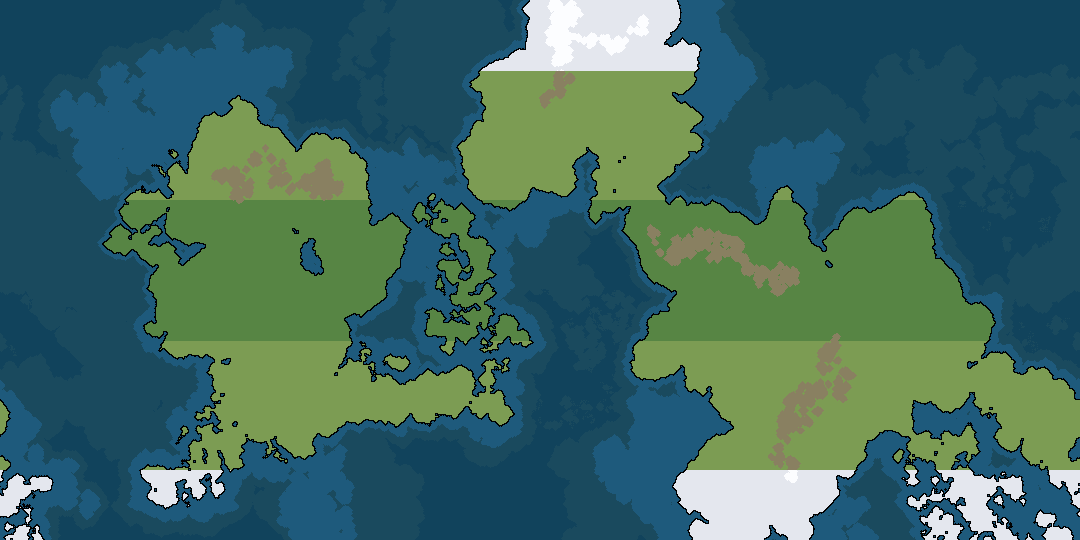
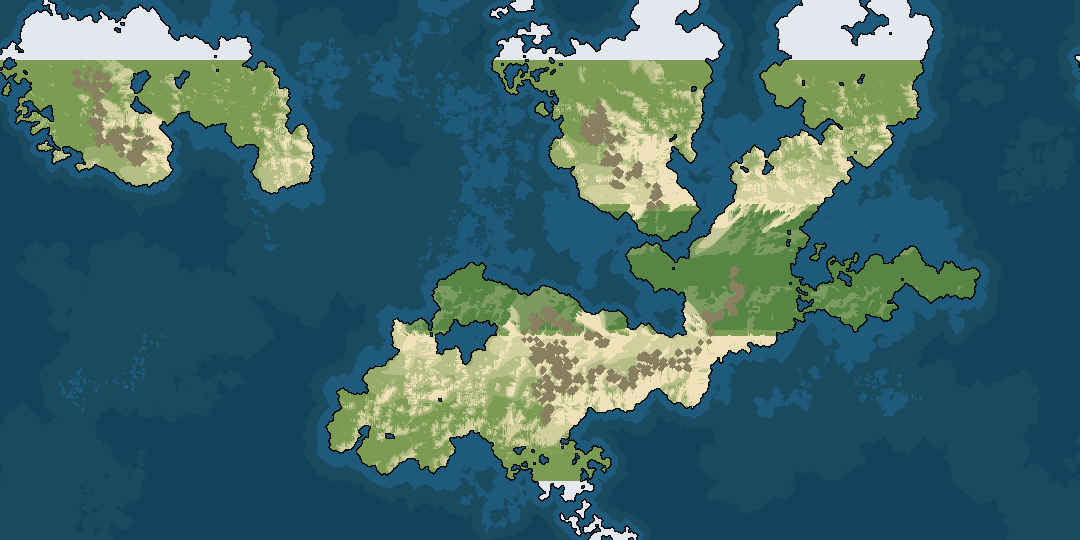
Prettier humidity

diff --git a/src/mapgen/HumidityMap.java b/src/mapgen/HumidityMap.java
@@ -58,7 +58,26 @@ public class HumidityMap extends Map
 				}
 				else
 				{
-					humidity_map[x][y] = 0;
+					double lat = getLatitude(y);
+					
+					if (lat < 0)
+					{
+						lat *= -1;
+					}
+					
+					if (lat >= getLatitude(horse_wind_height))
+					{
+						lat -= getLatitude(horse_wind_height); 
+						lat = (lat / getLatitude(horse_wind_height));
+					}
+					else
+					{
+						
+						lat = ((getLatitude(horse_wind_height) - lat) / getLatitude(horse_wind_height));
+					}
+					
+					
+					humidity_map[x][y] = lat;
 				}
 			}
 		}
@@ -78,9 +97,10 @@ public class HumidityMap extends Map
 					humidity_map[x][y] = 1;
 				}
 				else {
-					double avg = (humidity_map[x][y - 1]
+					double avg = (humidity_map[x][y]
+									+ humidity_map[x][y - 1]
 									+ humidity_map[x_prev][y-1]
-									+ humidity_map[x_b][y-1]) / 3;
+									+ humidity_map[x_b][y-1]) / 4;
 					
 					humidity_map[x][y] = wind_strength * avg;
 				}
@@ -89,9 +109,10 @@ public class HumidityMap extends Map
 					humidity_map[x][bottom_y] = 1;
 				}
 				else {
-					double avg = (humidity_map[x][bottom_y + 1]
+					double avg = (humidity_map[x][bottom_y]
+									+ humidity_map[x][bottom_y + 1]
 									+ humidity_map[x_prev][bottom_y+1] 
-									+ humidity_map[x_b][bottom_y+1]) / 3;
+									+ humidity_map[x_b][bottom_y+1]) / 4;
 					
 					humidity_map[x][bottom_y] = wind_strength * avg;
 				}
@@ -114,9 +135,20 @@ public class HumidityMap extends Map
 				}
 				else
 				{
-					double avg = (humidity_map[x][y+1] + humidity_map[x_prev][y+1] + humidity_map[x_b][y+1]) / 3;
+					double avg = (humidity_map[x][y] 
+									+ humidity_map[x][y+1] 
+									+ humidity_map[x_prev][y+1] 
+									+ humidity_map[x_b][y+1]) / 4;
 					
 					humidity_map[x][y] = wind_strength * avg;
+					
+					int h1 = height_map.getAltitude(new Point(x,y));
+					int h2 = height_map.getAltitude(new Point(x_prev,y+1));
+					
+					if (h1 < h2)
+					{
+						humidity_map[x][y] *= ((humidity_map[x][y] + ((h2 - h1) / HeightMap.MAX_HEIGHT)) / 2);
+					}
 				}
 				
 				
@@ -126,14 +158,25 @@ public class HumidityMap extends Map
 				}
 				else
 				{
-					double avg = (humidity_map[x][bottom_y-1] + humidity_map[x_prev][bottom_y-1] + humidity_map[x_b][bottom_y-1]) / 3;
+					double avg = (humidity_map[x][bottom_y]
+									+ humidity_map[x][bottom_y-1] 
+									+ humidity_map[x_prev][bottom_y-1] 
+									+ humidity_map[x_b][bottom_y-1]) / 4;
 					
 					humidity_map[x][bottom_y] = wind_strength * avg;
+					
+					int h1 = height_map.getAltitude(new Point(x,bottom_y));
+					int h2 = height_map.getAltitude(new Point(x_prev,bottom_y-1));
+					
+					if (h1 < h2)
+					{
+						humidity_map[x][bottom_y] *= ((humidity_map[x][bottom_y] + ((h2 - h1) / HeightMap.MAX_HEIGHT)) / 2);
+					}
 				}
 			}
 		}
 		
-		//Trade Winds
+		//Trade Winds / Tropical Zones
 		for (int y = trade_wind_height; y <= midpoint; y++)
 		{
 			int bottom_y = last_row - y;
@@ -148,22 +191,50 @@ public class HumidityMap extends Map
 					humidity_map[x][y] = 1;
 				}
 				else {
-					double avg = (humidity_map[x][y - 1]
+					double avg = (humidity_map[x][y]
+									+ humidity_map[x][y - 1]
 									+ humidity_map[x_prev][y-1]
-									+ humidity_map[x_b][y-1]) / 3;
+									+ humidity_map[x_b][y-1]) / 4;
 					
 					humidity_map[x][y] = wind_strength * avg;
+					
+					int h1 = height_map.getAltitude(new Point(x,y));
+					int h2 = height_map.getAltitude(new Point(x_prev,y+1));
+					
+					if (h1 > h2)
+					{
+						humidity_map[x][y] /= ((humidity_map[x][y] + ((h2 - h1) / HeightMap.MAX_HEIGHT)) / 2);
+					}
+					
+					if (humidity_map[x][y] > 0.5)
+					{
+						humidity_map[x][y] = (humidity_map[x][y] + 1) / 2;
+					}
 				}
 				
 				if (height_map.getAltitude(new Point(x,bottom_y)) <= water_level) {
 					humidity_map[x][bottom_y] = 1;
 				}
 				else {
-					double avg = (humidity_map[x][bottom_y + 1]
+					double avg = (humidity_map[x][bottom_y]
+									+ humidity_map[x][bottom_y + 1]
 									+ humidity_map[x_prev][bottom_y+1] 
-									+ humidity_map[x_b][bottom_y+1]) / 3;
+									+ humidity_map[x_b][bottom_y+1]) / 4;
 					
 					humidity_map[x][bottom_y] = wind_strength * avg;
+					
+					int h1 = height_map.getAltitude(new Point(x,bottom_y));
+					int h2 = height_map.getAltitude(new Point(x_prev,bottom_y+1));
+					
+					if (h1 > h2)
+					{
+						humidity_map[x][bottom_y] /= ((humidity_map[x][bottom_y] + ((h2 - h1) / HeightMap.MAX_HEIGHT)) / 2);
+					}
+					
+					if (humidity_map[x][bottom_y] > 0.5)
+					{
+						humidity_map[x][bottom_y] = (humidity_map[x][bottom_y] + 1) / 2;
+					}
 				}
 			}
 		}

diff --git a/src/gui/MapPanel.java b/src/gui/MapPanel.java
@@ -75,6 +75,27 @@ public class MapPanel extends ImagePanel {
 			{
 				double humidity = humidity_map.getHumidity(p);
 				
+				if (humidity < 0.125)
+				{
+					humidity = 0;
+				}
+				else if (humidity < 0.375)
+				{
+					humidity = 0.25;
+				}
+				else if (humidity < 0.625)
+				{
+					humidity = 0.5;
+				}
+				else if (humidity < 0.875)
+				{
+					humidity = 0.75;
+				}
+				else
+				{
+					humidity = 1;
+				}
+				
 				if (planet.isCoast(p))
 				{
 					image.setRGB(p.x, p.y, coast_colour);
@@ -89,7 +110,10 @@ public class MapPanel extends ImagePanel {
 				}
 				else if(planet.isFrigid(p))
 				{
-					image.setRGB(p.x, p.y, frigid_colour);
+					if (planet.isMountain(p))
+						image.setRGB(p.x, p.y, frigid_mountain_colour);
+					else
+						image.setRGB(p.x, p.y, frigid_colour);
 				}
 				else if(planet.isTemperate(p))
 				{
@@ -103,7 +127,7 @@ public class MapPanel extends ImagePanel {
 					if (planet.isMountain(p))
 						image.setRGB(p.x, p.y, mountain_colour);
 					else
-						image.setRGB(p.x, p.y, mixColours(tropical_colour,temperate_colour,humidity));
+						image.setRGB(p.x, p.y, mixColours(tropical_colour,dry_colour,humidity));
 				}
 			}
 		}

diff --git a/src/mapgen/BiomePlanet.java b/src/mapgen/BiomePlanet.java
@@ -25,7 +25,7 @@ public class BiomePlanet extends TiltedPlanet
 		this.water_level = water_level;
 		this.height_map = height_map;
 		humidity_map = new HumidityMap(height_map.getScale());
-		wind_strength = 0.98;
+		wind_strength = 0.9;
 		humidity_map.generate(height_map, this, water_level, wind_strength);
 	}
 	
